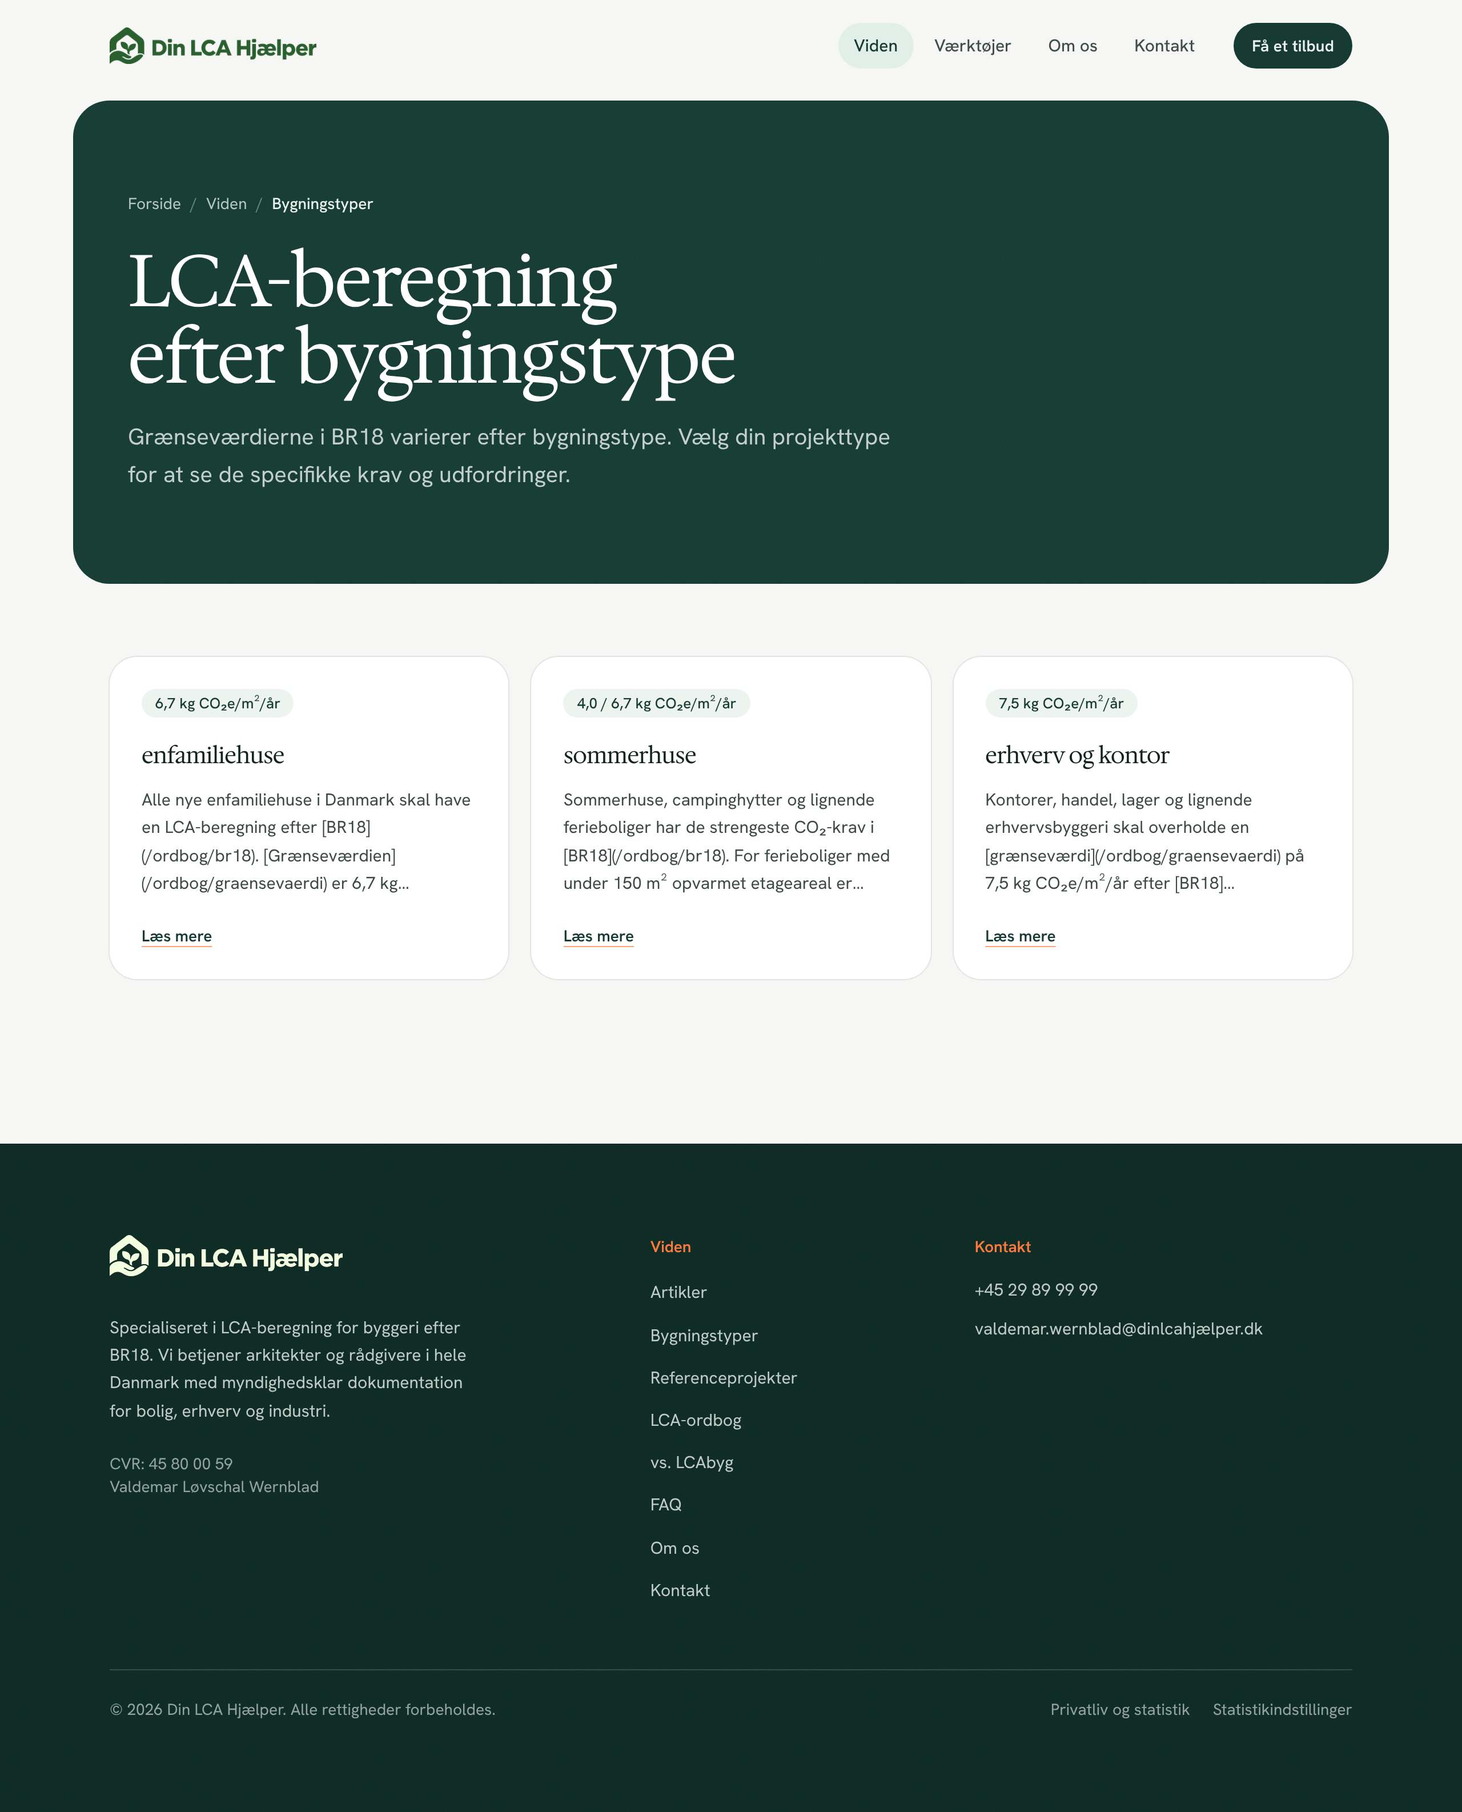
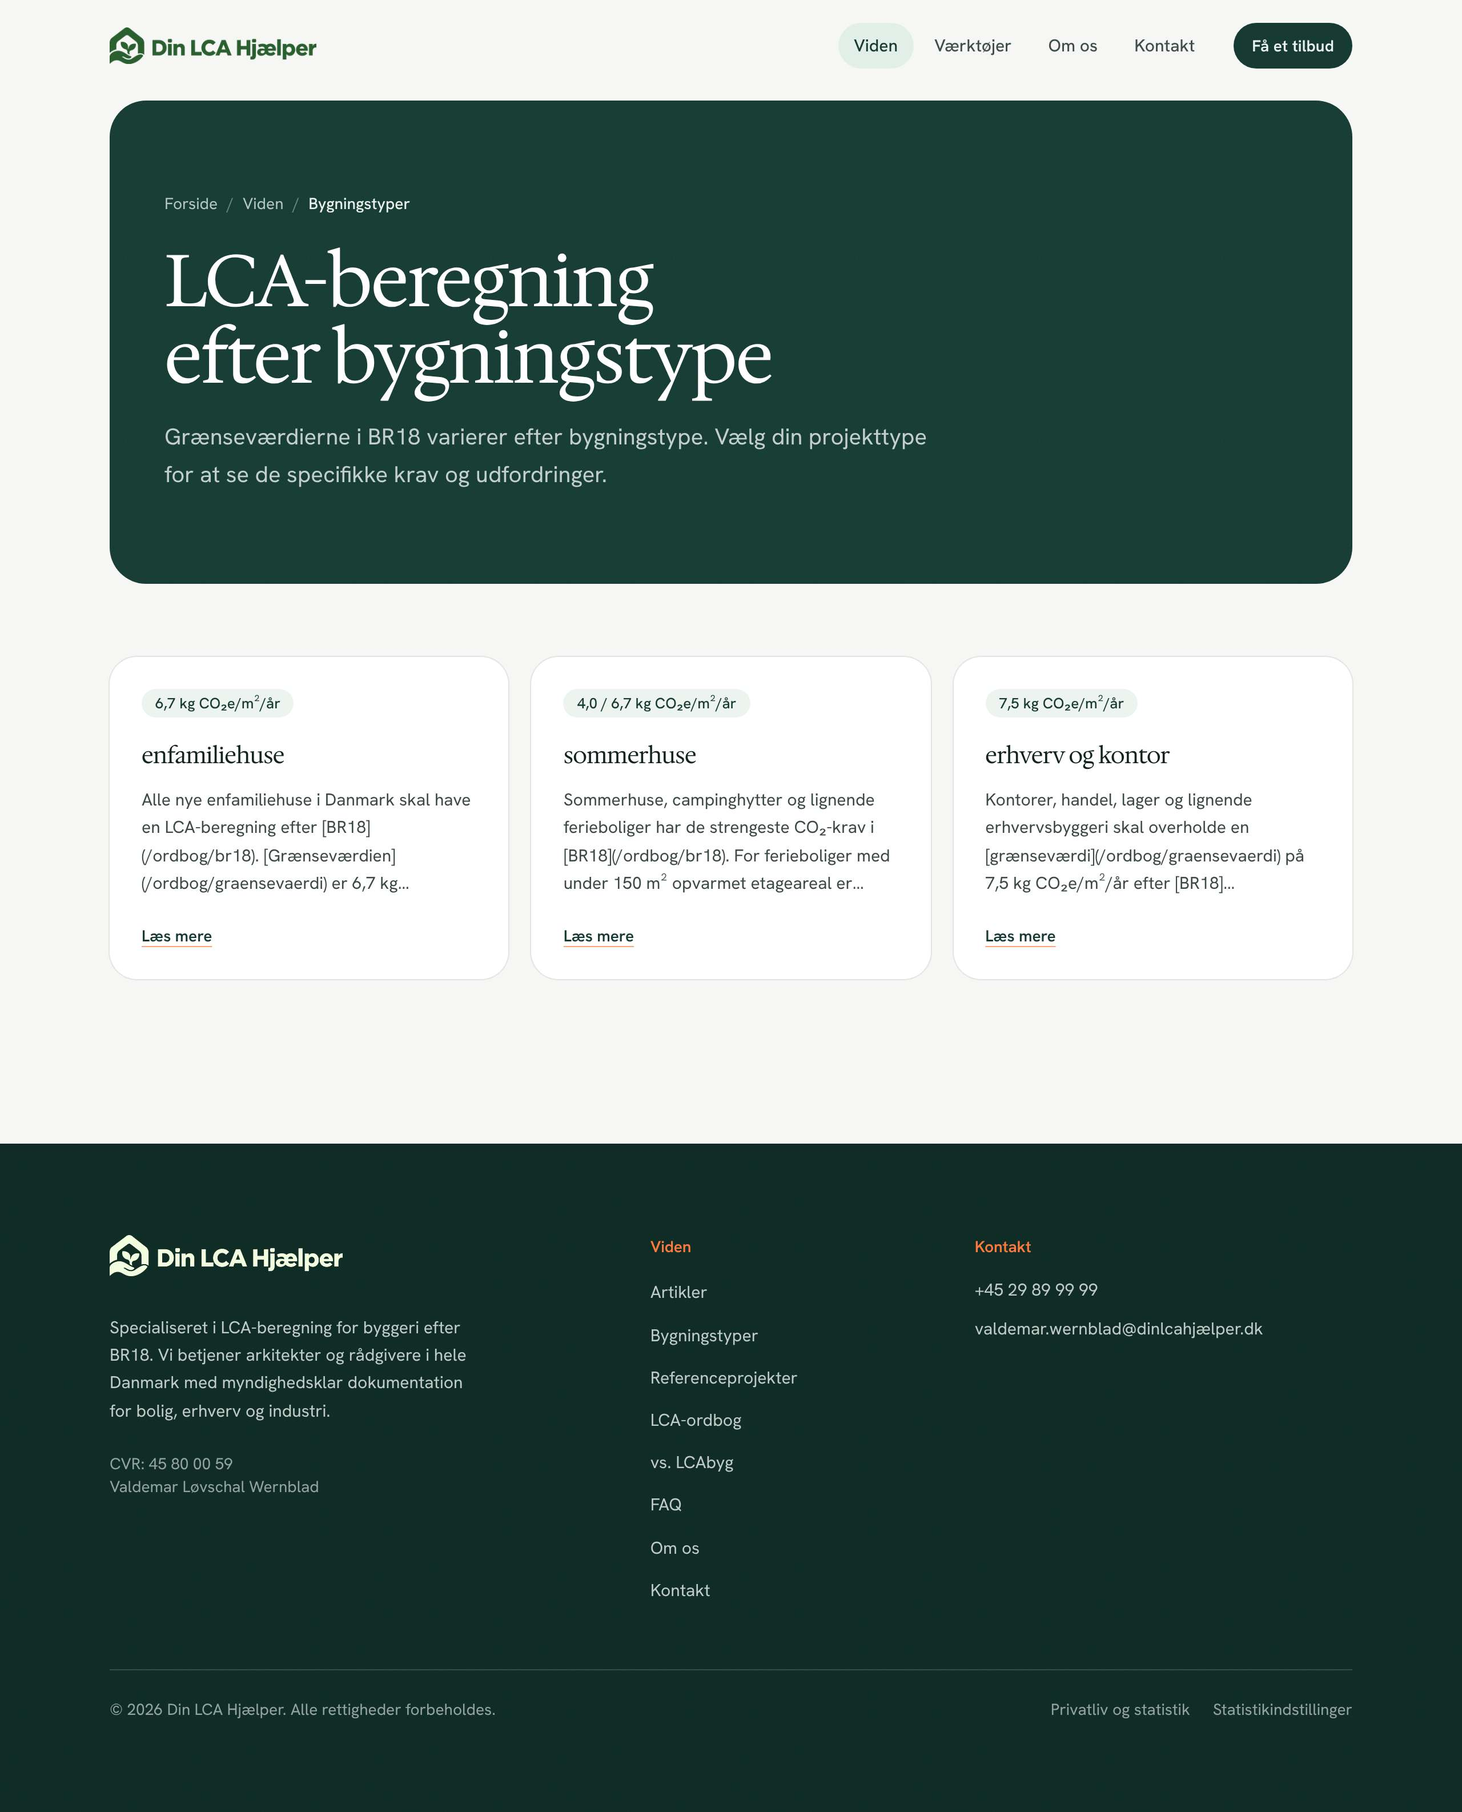
fix: apply finish review (field widths, mobile loop, eyebrows, tablet hero)
Claude-Session: https://claude.ai/code/session_01KfUnEYv7PSMzUf43akufoe

Changed region(s): [[0.0312, 0.0312, 0.625, 0.3433], [0.9062, 0.0312, 0.9688, 0.3433]]

diff --git a/src/components/sections/Hero.tsx b/src/components/sections/Hero.tsx
@@ -80,10 +80,10 @@ const fieldCls =
 function Seal({ value }: { value: number | null }) {
   return (
     <div
-      className="relative mx-auto mb-6 grid h-24 w-24 -rotate-6 place-items-center rounded-full bg-spark text-green-deep shadow-[0_18px_30px_-18px_rgb(0_0_0/0.55)] md:absolute md:right-10 md:top-10 md:mb-0 md:h-40 md:w-40"
+      className="relative mx-auto mb-6 grid h-24 w-24 -rotate-6 place-items-center rounded-full bg-spark text-green-deep shadow-[0_18px_30px_-18px_rgb(0_0_0/0.55)] lg:absolute lg:right-6 lg:top-6 lg:mb-0 lg:h-32 lg:w-32 xl:right-10 xl:top-10 xl:h-40 xl:w-40"
       aria-hidden="true"
     >
-      <svg viewBox="0 0 164 164" className="absolute inset-0 hidden h-full w-full md:block">
+      <svg viewBox="0 0 164 164" className="absolute inset-0 hidden h-full w-full lg:block">
         <defs>
           <path id="seal-ring" d="M82 82 m-64 0 a64 64 0 1 1 128 0 a64 64 0 1 1 -128 0" />
         </defs>
@@ -94,10 +94,10 @@ function Seal({ value }: { value: number | null }) {
         </text>
       </svg>
       <div className="text-center">
-        <span key={value ?? "ingen"} className="seal-value block font-display text-[1.9rem] leading-none md:text-[2.75rem]">
+        <span key={value ?? "ingen"} className="seal-value block font-display text-[1.9rem] leading-none lg:text-[2.2rem] xl:text-[2.75rem]">
           {value === null ? "Ingen" : kommatal(value)}
         </span>
-        <span className="mt-1 block text-[9px] font-semibold md:text-[11px]">{value === null ? "grænseværdi" : "kg CO₂e/m²/år"}</span>
+        <span className="mt-1 block text-[9px] font-semibold lg:text-[11px]">{value === null ? "grænseværdi" : "kg CO₂e/m²/år"}</span>
       </div>
     </div>
   );
@@ -131,8 +131,8 @@ export function Hero() {
   const kontaktUrl = `/kontakt?${new URLSearchParams({ type, ...(harAreal ? { m2: String(m2) } : {}), byggeri }).toString()}`;
 
   return (
-    <section className="px-3 pt-2 md:px-6">
-      <div className="grain relative mx-auto max-w-6xl overflow-hidden rounded-[24px] bg-green px-4 pt-12 text-center text-mist md:rounded-[32px] md:px-12 md:pt-24">
+    <section className="px-3 pt-2 md:px-8">
+      <div className="grain relative mx-auto max-w-[68rem] overflow-hidden rounded-[24px] bg-green px-4 pt-12 text-center text-mist md:rounded-[32px] md:px-12 md:pt-24">
         <div aria-hidden="true" className="pointer-events-none absolute left-1/2 top-[-520px] h-[900px] w-[900px] -translate-x-1/2 rounded-full bg-[radial-gradient(closest-side,rgb(255_255_255/0.07),transparent)]" />
         <Seal value={res?.graensevaerdi ?? null} />
 
@@ -185,7 +185,7 @@ export function Hero() {
             />
           </p>
 
-          <div aria-live="polite" className="mt-5 grid grid-cols-2 gap-y-4 border-t border-line pt-5 md:grid-cols-[auto_auto_auto_1fr] md:items-center md:gap-y-0">
+          <div aria-live="polite" className="mt-5 grid grid-cols-2 gap-y-4 border-t border-line pt-5 lg:grid-cols-[auto_auto_auto_1fr] lg:items-center lg:gap-y-0">
             {res ? (
               <>
                 <Out label="LCA-krav">
@@ -208,7 +208,7 @@ export function Hero() {
                   )}
                 </Out>
                 {visPris && (
-                  <Out label="Vejledende pris" divider className="col-span-2 border-l-0 pl-0 md:col-span-1 md:border-l md:pl-6">
+                  <Out label="Vejledende pris" divider className="col-span-2 border-l-0 pl-0 lg:col-span-1 lg:border-l lg:pl-6">
                     <span className="whitespace-nowrap shadow-[inset_0_-9px_0_rgb(255_122_61/0.4)]">{prisTekst}</span>
                     {prisTekst !== "Individuelt tilbud" && (
                       <>
@@ -220,11 +220,11 @@ export function Hero() {
                 )}
               </>
             ) : (
-              <p className="col-span-2 text-[15px] text-muted md:col-span-3">Skriv det opvarmede etageareal for at se krav og pris.</p>
+              <p className="col-span-2 text-[15px] text-muted lg:col-span-3">Skriv det opvarmede etageareal for at se krav og pris.</p>
             )}
             <Link
               to={kontaktUrl}
-              className="col-span-2 inline-flex h-12 items-center justify-center gap-2.5 justify-self-stretch rounded-full bg-green px-6 text-[15px] font-semibold text-mist transition-[background-color,scale] duration-150 ease-out hover:bg-green-deep active:scale-[0.97] md:col-span-1 md:justify-self-end"
+              className="col-span-2 inline-flex h-12 items-center justify-center gap-2.5 justify-self-stretch rounded-full bg-green px-6 text-[15px] font-semibold text-mist transition-[background-color,scale] duration-150 ease-out hover:bg-green-deep active:scale-[0.97] lg:col-span-1 lg:justify-self-end"
             >
               Få et fast tilbud
               <svg viewBox="0 0 24 24" className="h-4 w-4" fill="none" stroke="currentColor" strokeWidth="2" strokeLinecap="round" strokeLinejoin="round" aria-hidden="true">
@@ -256,7 +256,7 @@ export function Hero() {
 
 function Out({ label, children, divider = false, className = "" }: { label: string; children: React.ReactNode; divider?: boolean; className?: string }) {
   return (
-    <div className={`min-w-0 ${divider ? "md:border-l md:border-line md:pl-6" : ""} pr-6 ${className}`}>
+    <div className={`min-w-0 ${divider ? "lg:border-l lg:border-line lg:pl-6" : ""} pr-6 ${className}`}>
       <p className="text-[13px] font-medium text-muted">{label}</p>
       <p className="mt-0.5 font-display text-[1.35rem] leading-tight md:text-[1.5rem]">{children}</p>
     </div>

diff --git a/src/components/sections/Process.tsx b/src/components/sections/Process.tsx
@@ -6,7 +6,6 @@ import {
   Truck,
   RefreshCw,
   FileOutput,
-  RotateCcw,
   type LucideProps,
 } from "lucide-react";
 import { SectionWrapper } from "../ui/SectionWrapper";
@@ -85,7 +84,7 @@ type Geometry = { width: number; height: number; points: Pt[] };
 type Leg = (
   | { kind: "line"; from: Pt; to: Pt }
   | { kind: "turn"; from: Pt; to: Pt; laneX: number; r: number }
-  | { kind: "loop"; from: Pt; to: Pt; far: Pt; sweep: 0 | 1; dir: Pt }
+  | { kind: "loop"; from: Pt; to: Pt; far: Pt; sweep: 0 | 1; dir: Pt; r: number }
 ) & { endsAtDisc: boolean; arrow: boolean };
 type Arrow = { x: number; y: number; angle: number; at: number };
 type LoopModel = {
@@ -126,12 +125,12 @@ function turnGeometry(leg: Extract<Leg, { kind: "turn" }>) {
 
 function legLength(leg: Leg): number {
   if (leg.kind === "line") return Math.hypot(leg.to.x - leg.from.x, leg.to.y - leg.from.y);
-  if (leg.kind === "loop") return 2 * Math.PI * LOOP_RADIUS;
+  if (leg.kind === "loop") return 2 * Math.PI * leg.r;
   return turnGeometry(leg).length;
 }
 
 function loopPath(leg: Extract<Leg, { kind: "loop" }>): string {
-  const r = LOOP_RADIUS;
+  const r = leg.r;
   return `M ${f(leg.from.x)} ${f(leg.from.y)} A ${r} ${r} 0 0 ${leg.sweep} ${f(leg.far.x)} ${f(leg.far.y)} A ${r} ${r} 0 0 ${leg.sweep} ${f(leg.to.x)} ${f(leg.to.y)}`;
 }
 
@@ -161,9 +160,11 @@ function buildLegs(points: Pt[], width: number): Leg[] {
       // Loop away from the step text: upward on a horizontal run, leftward on a vertical one.
       const normal = Math.abs(dir.x) > 0.5 ? { x: 0, y: -1 } : { x: -1, y: 0 };
       const sweep: 0 | 1 = dir.x * normal.y - dir.y * normal.x > 0 ? 1 : 0;
-      const far = { x: at.x + 2 * LOOP_RADIUS * normal.x, y: at.y + 2 * LOOP_RADIUS * normal.y };
+      // On a vertical run (phones) the loop swings into the left gutter; keep it on screen.
+      const r = Math.abs(dir.x) > 0.5 ? LOOP_RADIUS : Math.max(10, Math.min(LOOP_RADIUS, Math.floor((at.x - 6) / 2)));
+      const far = { x: at.x + 2 * r * normal.x, y: at.y + 2 * r * normal.y };
       legs.push({ kind: "line", from, to: at, endsAtDisc: false, arrow: false });
-      legs.push({ kind: "loop", from: at, to: at, far, sweep, dir, endsAtDisc: false, arrow: false });
+      legs.push({ kind: "loop", from: at, to: at, far, sweep, dir, r, endsAtDisc: false, arrow: false });
       from = at;
     }
 
@@ -201,7 +202,7 @@ function buildPath(points: Pt[], width: number): PathModel {
         });
       }
     } else if (leg.kind === "loop") {
-      const r = LOOP_RADIUS;
+      const r = leg.r;
       d += ` A ${r} ${r} 0 0 ${leg.sweep} ${f(leg.far.x)} ${f(leg.far.y)} A ${r} ${r} 0 0 ${leg.sweep} ${f(leg.to.x)} ${f(leg.to.y)}`;
       // On the far side of the loop the flow runs back toward the step: that chevron is the cue.
       arrows.push({
@@ -370,7 +371,7 @@ export function Process() {
                   <p className="mt-2 max-w-[30ch] text-[15px] leading-relaxed text-body">{step.description}</p>
                   {i === LOOP_STEP && (
                     <p className="mt-3 flex max-w-[30ch] items-start gap-2 text-[14px] font-semibold leading-snug text-ink">
-                      <RotateCcw size={15} strokeWidth={2.25} aria-hidden="true" className="mt-0.5 shrink-0 text-spark" />
+                      <span className="mt-[0.45em] h-2 w-2 shrink-0 rounded-full border-2 border-spark" aria-hidden="true" />
                       <span>{LOOP_NOTE}</span>
                     </p>
                   )}

diff --git a/src/components/sections/Pricing.tsx b/src/components/sections/Pricing.tsx
@@ -36,11 +36,13 @@ export function Pricing() {
           </p>
 
           <div className="mt-10">
-            <Tag tone="spark">A4+A5 inkluderet</Tag>
-            <p className="mt-4 font-display text-[2.4rem] leading-[1.05] text-ink sm:text-[3rem]">
+            <p className="font-display text-[2.4rem] leading-[1.05] text-ink sm:text-[3rem]">
               Typisk <span className="whitespace-nowrap">5.000-7.000 kr</span>
             </p>
-            <p className="mt-3 text-[15px] text-muted">ekskl. moms for et komplet enfamiliehus</p>
+            <p className="mt-3 flex flex-wrap items-center gap-2 text-[15px] text-muted">
+              ekskl. moms for et komplet enfamiliehus
+              <Tag tone="spark" className="ml-2">A4+A5 inkluderet</Tag>
+            </p>
           </div>
 
           <div className="mt-8 flex flex-wrap gap-3">
@@ -56,7 +58,7 @@ export function Pricing() {
           </p>
         </div>
 
-        <div className="lg:col-span-6 lg:col-start-7">
+        <div className="lg:col-span-6 lg:col-start-7 lg:self-start">
           <Sheet className="h-full">
             <ul className="divide-y divide-line">
               {inclusions.map((item) => (

diff --git a/src/pages/NotFoundPage.tsx b/src/pages/NotFoundPage.tsx
@@ -21,11 +21,10 @@ export function NotFoundPage() {
         />
         <meta name="robots" content="noindex, follow" />
       </Helmet>
-      <section className="px-3 pb-16 pt-2 md:px-6 md:pb-24">
-        <div className="grain mx-auto max-w-6xl overflow-hidden rounded-[24px] bg-green px-5 py-16 text-mist md:rounded-[32px] md:px-12 md:py-24">
+      <section className="px-3 pb-16 pt-2 md:px-8 md:pb-24">
+        <div className="grain mx-auto max-w-[68rem] overflow-hidden rounded-[24px] bg-green px-5 py-16 text-mist md:rounded-[32px] md:px-12 md:py-24">
         <div className="max-w-2xl">
-          <p className="text-sm font-semibold text-spark">404</p>
-          <h1 className="mt-3 text-[2.5rem] leading-tight text-white md:text-[3.5rem]">
+          <h1 className="text-[2.5rem] leading-tight text-white md:text-[3.5rem]">
             Siden blev ikke fundet
           </h1>
           <p className="mt-5 text-lg leading-relaxed text-mist/80">

diff --git a/src/components/ui/PageHero.tsx b/src/components/ui/PageHero.tsx
@@ -45,8 +45,8 @@ export function PageHero({ title, lede, crumbs, children, width = "wide", size =
   const inner = width === "narrow" ? "max-w-[46rem]" : "max-w-4xl";
   const pad = size === "compact" ? "py-10 md:py-14" : "py-12 md:py-20";
   return (
-    <section className="px-3 pb-12 pt-2 md:px-6 md:pb-16">
-      <div className={`grain mx-auto max-w-6xl overflow-hidden rounded-[24px] bg-green px-5 text-mist md:rounded-[32px] md:px-12 ${pad}`}>
+    <section className="px-3 pb-12 pt-2 md:px-8 md:pb-16">
+      <div className={`grain mx-auto max-w-[68rem] overflow-hidden rounded-[24px] bg-green px-5 text-mist md:rounded-[32px] md:px-12 ${pad}`}>
         <div className={inner}>
           {crumbs && <Breadcrumb items={crumbs} className="mb-6" />}
           <h1 className="text-[2.5rem] leading-[1.05] text-white md:text-[3.5rem] lg:text-[4rem]">{title}</h1>

diff --git a/src/components/sections/FinalCTA.tsx b/src/components/sections/FinalCTA.tsx
@@ -2,8 +2,8 @@ import { Button } from "../ui/Button";
 
 export function FinalCTA() {
   return (
-    <section className="px-3 pb-6 md:px-6">
-      <div className="grain mx-auto max-w-6xl overflow-hidden rounded-[24px] bg-green px-6 py-16 md:rounded-[32px] md:px-12 md:py-24">
+    <section className="px-3 pb-6 md:px-8">
+      <div className="grain mx-auto max-w-[68rem] overflow-hidden rounded-[24px] bg-green px-6 py-16 md:rounded-[32px] md:px-12 md:py-24">
         <div className="grid gap-10 lg:grid-cols-12 lg:items-end">
           <div className="lg:col-span-8">
             <h2 className="max-w-[18ch] text-[2.25rem] leading-[1.05] text-white md:text-[3.5rem]">

diff --git a/src/components/sections/Problem.tsx b/src/components/sections/Problem.tsx
@@ -23,7 +23,7 @@ export function Problem() {
     <SectionWrapper bg="mist">
       <div className="grid gap-10 lg:grid-cols-12 lg:gap-16">
         <div className="lg:col-span-5">
-          <h2 className="max-w-[18ch] text-[2.25rem] leading-[1.05] md:text-[3rem] lg:sticky lg:top-28">Hvorfor LCA-beregning ikke er til at komme udenom</h2>
+          <h2 className="max-w-[18ch] text-[2.25rem] leading-[1.05] lg:sticky lg:top-28 lg:text-[2.75rem]">Hvorfor <span className="whitespace-nowrap">LCA-beregning</span> ikke er til at komme udenom</h2>
         </div>
         <div className="lg:col-span-7">
           {painPoints.map((point, i) => (

diff --git a/src/pages/AboutPage.tsx b/src/pages/AboutPage.tsx
@@ -58,8 +58,8 @@ export function AboutPage() {
               </div>
             </div>
 
-            <aside className="lg:col-span-5 lg:-mt-40 lg:relative lg:z-10">
-              <div className="overflow-hidden rounded-sheet bg-white ring-1 ring-line shadow-sheet">
+            <aside className="lg:col-span-5">
+              <div className="overflow-hidden rounded-sheet bg-white ring-1 ring-line">
                 {/* Same portrait as the VW Projects site. */}
                 <img
                   src="/images/valdemar-wernblad.webp"

diff --git a/docs/cloud-review/reports/04-redesign.md b/docs/cloud-review/reports/04-redesign.md
@@ -85,7 +85,7 @@ Home (`/`)
 - The Process loop is kept: same six steps, the same loop after step 03, the same wording. It now draws once when the section enters the viewport. The loop is drawn in the spark colour, and the explanation sits under step 03 at every width, which fixes finding 11 from report 01 (the note covered the connector). The infinite drifting "current" overlay is removed.
 - Pricing, References, FAQ and the final CTA are restyled. Count-ups and drawn check marks are removed. The pricing list gains "Anbefaling af produkter med produktspecifik EPD".
 
-Other pages: they get the new hero field, type, cards and links. On project-type, reference-project and blog-post pages, the hero tags and meta text were recoloured so they stay readable on green. The about portrait is larger and overlaps the hero edge. The 404 uses the green field.
+Other pages: they get the new hero field, type, cards and links. On project-type, reference-project and blog-post pages, the hero tags and meta text were recoloured so they stay readable on green. The about portrait column is wider. The 404 uses the green field.
 
 Content and SEO: titles, meta descriptions, canonicals, JSON-LD, routes and the sitemap are unchanged. `llms.txt` and `llms-full.txt` gained the EPD line.
 
@@ -154,6 +154,21 @@ Kept, and reviewed with `review-animations`:
   - No overflow and no crash anywhere.
   - Fixed: "Individuelt tilbud ekskl. moms" now drops the "ekskl. moms" suffix. The m² field also widens with its content.
 - Firecrawl: 25 credits used in this session (72 before, 97 after) against a budget of 100.
+
+## Adversarial review
+
+- **impeccable finish review.** A fresh reviewer, which never saw the build thread, checked the 34 screenshots, the direction contract and comp J. Disposition: **fix**, with 7 material items, all applied:
+  1. **Process loop on phones:** the ring was cut off by the screen edge. Its radius now shrinks on vertical runs.
+  2. **Field width:** the hero, final CTA, subpage header and 404 fields were 32 px wider than the content column. They now line up with the nav and footer edges (`max-w-[68rem]`, `md:px-8`).
+  3. **404 page:** the "404" label above the h1 was an eyebrow. It is removed.
+  4. **Pricing tag:** "A4+A5 inkluderet" sat above the price like an eyebrow. It now sits inline after "ekskl. moms ...".
+  5. **Problem heading:** it broke "LCA-" at a line end. "LCA-beregning" now stays together, and the heading is a step smaller in its column.
+  6. **Process note:** it carried a second loop icon. That is replaced by a small spark ring that matches the loop.
+  7. **Pricing card:** it had empty space at the bottom, and no longer stretches.
+- **Reviewer's open question.** The About portrait overlapped the header field, close to the "portrait at the top" you rejected. I reverted it to sit beside the text.
+- **My own check at 768 and 1024.** The seal overlapped the headline and the result row was cramped. Below 1024 px the seal now sits above the headline and the row stacks. At 1024 the seal is smaller.
+- **Re-run after the fixes:** lint, tests and prerender pass. All routes at 375, 768 and 1280 are clean, the flows work, and `impeccable detect` returns `[]`. The after screenshots were recaptured.
+- **Left on the table** (the reviewer's ceiling notes, not done): the three home reference cards still follow the big-number template, and the process loop note could sit right beside the ring on desktop.
 
 ## Left for Valdemar
 
